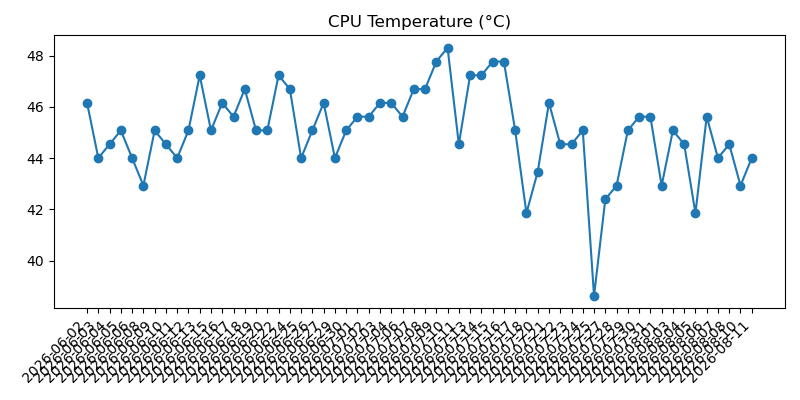
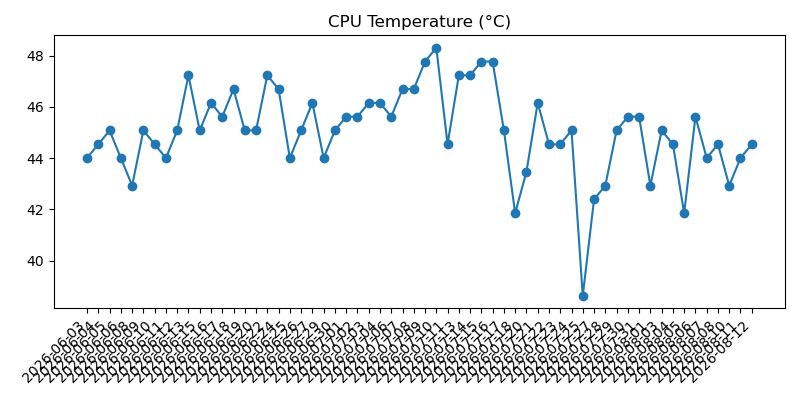
Add daily health and weather snapshot

Changed region(s): [[0.0938, 0.09, 0.9688, 0.75], [0.0938, 0.81, 0.9375, 0.87]]

diff --git a/2026-08.md b/2026-08.md
@@ -306,3 +306,37 @@
 - Overall: Warning
 - Warning: Power issue detected: Undervoltage has occurred; Throttling has occurred
 
+## 2026-08-12 10:42:51
+
+### Machine
+- Uptime: up 1 week, 17 hours, 23 minutes
+- CPU load (1m, 5m, 15m): 0.00, 0.00, 0.00
+- RAM used: 180 MB / 921 MB (19.6%)
+- Disk used (/): 3.6 GB / 28.8 GB (12.6%)
+- Free disk space (/): 24.0 GB
+- CPU temp: 44.5°C
+- Voltage / throttling: Undervoltage has occurred; Throttling has occurred
+
+### Reachability
+- Internet check (1.1.1.1): Reachable (4.2 ms)
+
+### Weather
+- Madrid:
+  - Condition: Despejado
+  - Max temp: 38°C
+  - Min temp: 25°C
+  - Feels like: 30°C
+  - Chance of rain: 0%
+  - Warnings: None reported
+- Barcelona:
+  - Condition: Poco nuboso
+  - Max temp: 32°C
+  - Min temp: 25°C
+  - Feels like: 32°C
+  - Chance of rain: 0%
+  - Warnings: None reported
+
+### Health
+- Overall: Warning
+- Warning: Power issue detected: Undervoltage has occurred; Throttling has occurred
+
